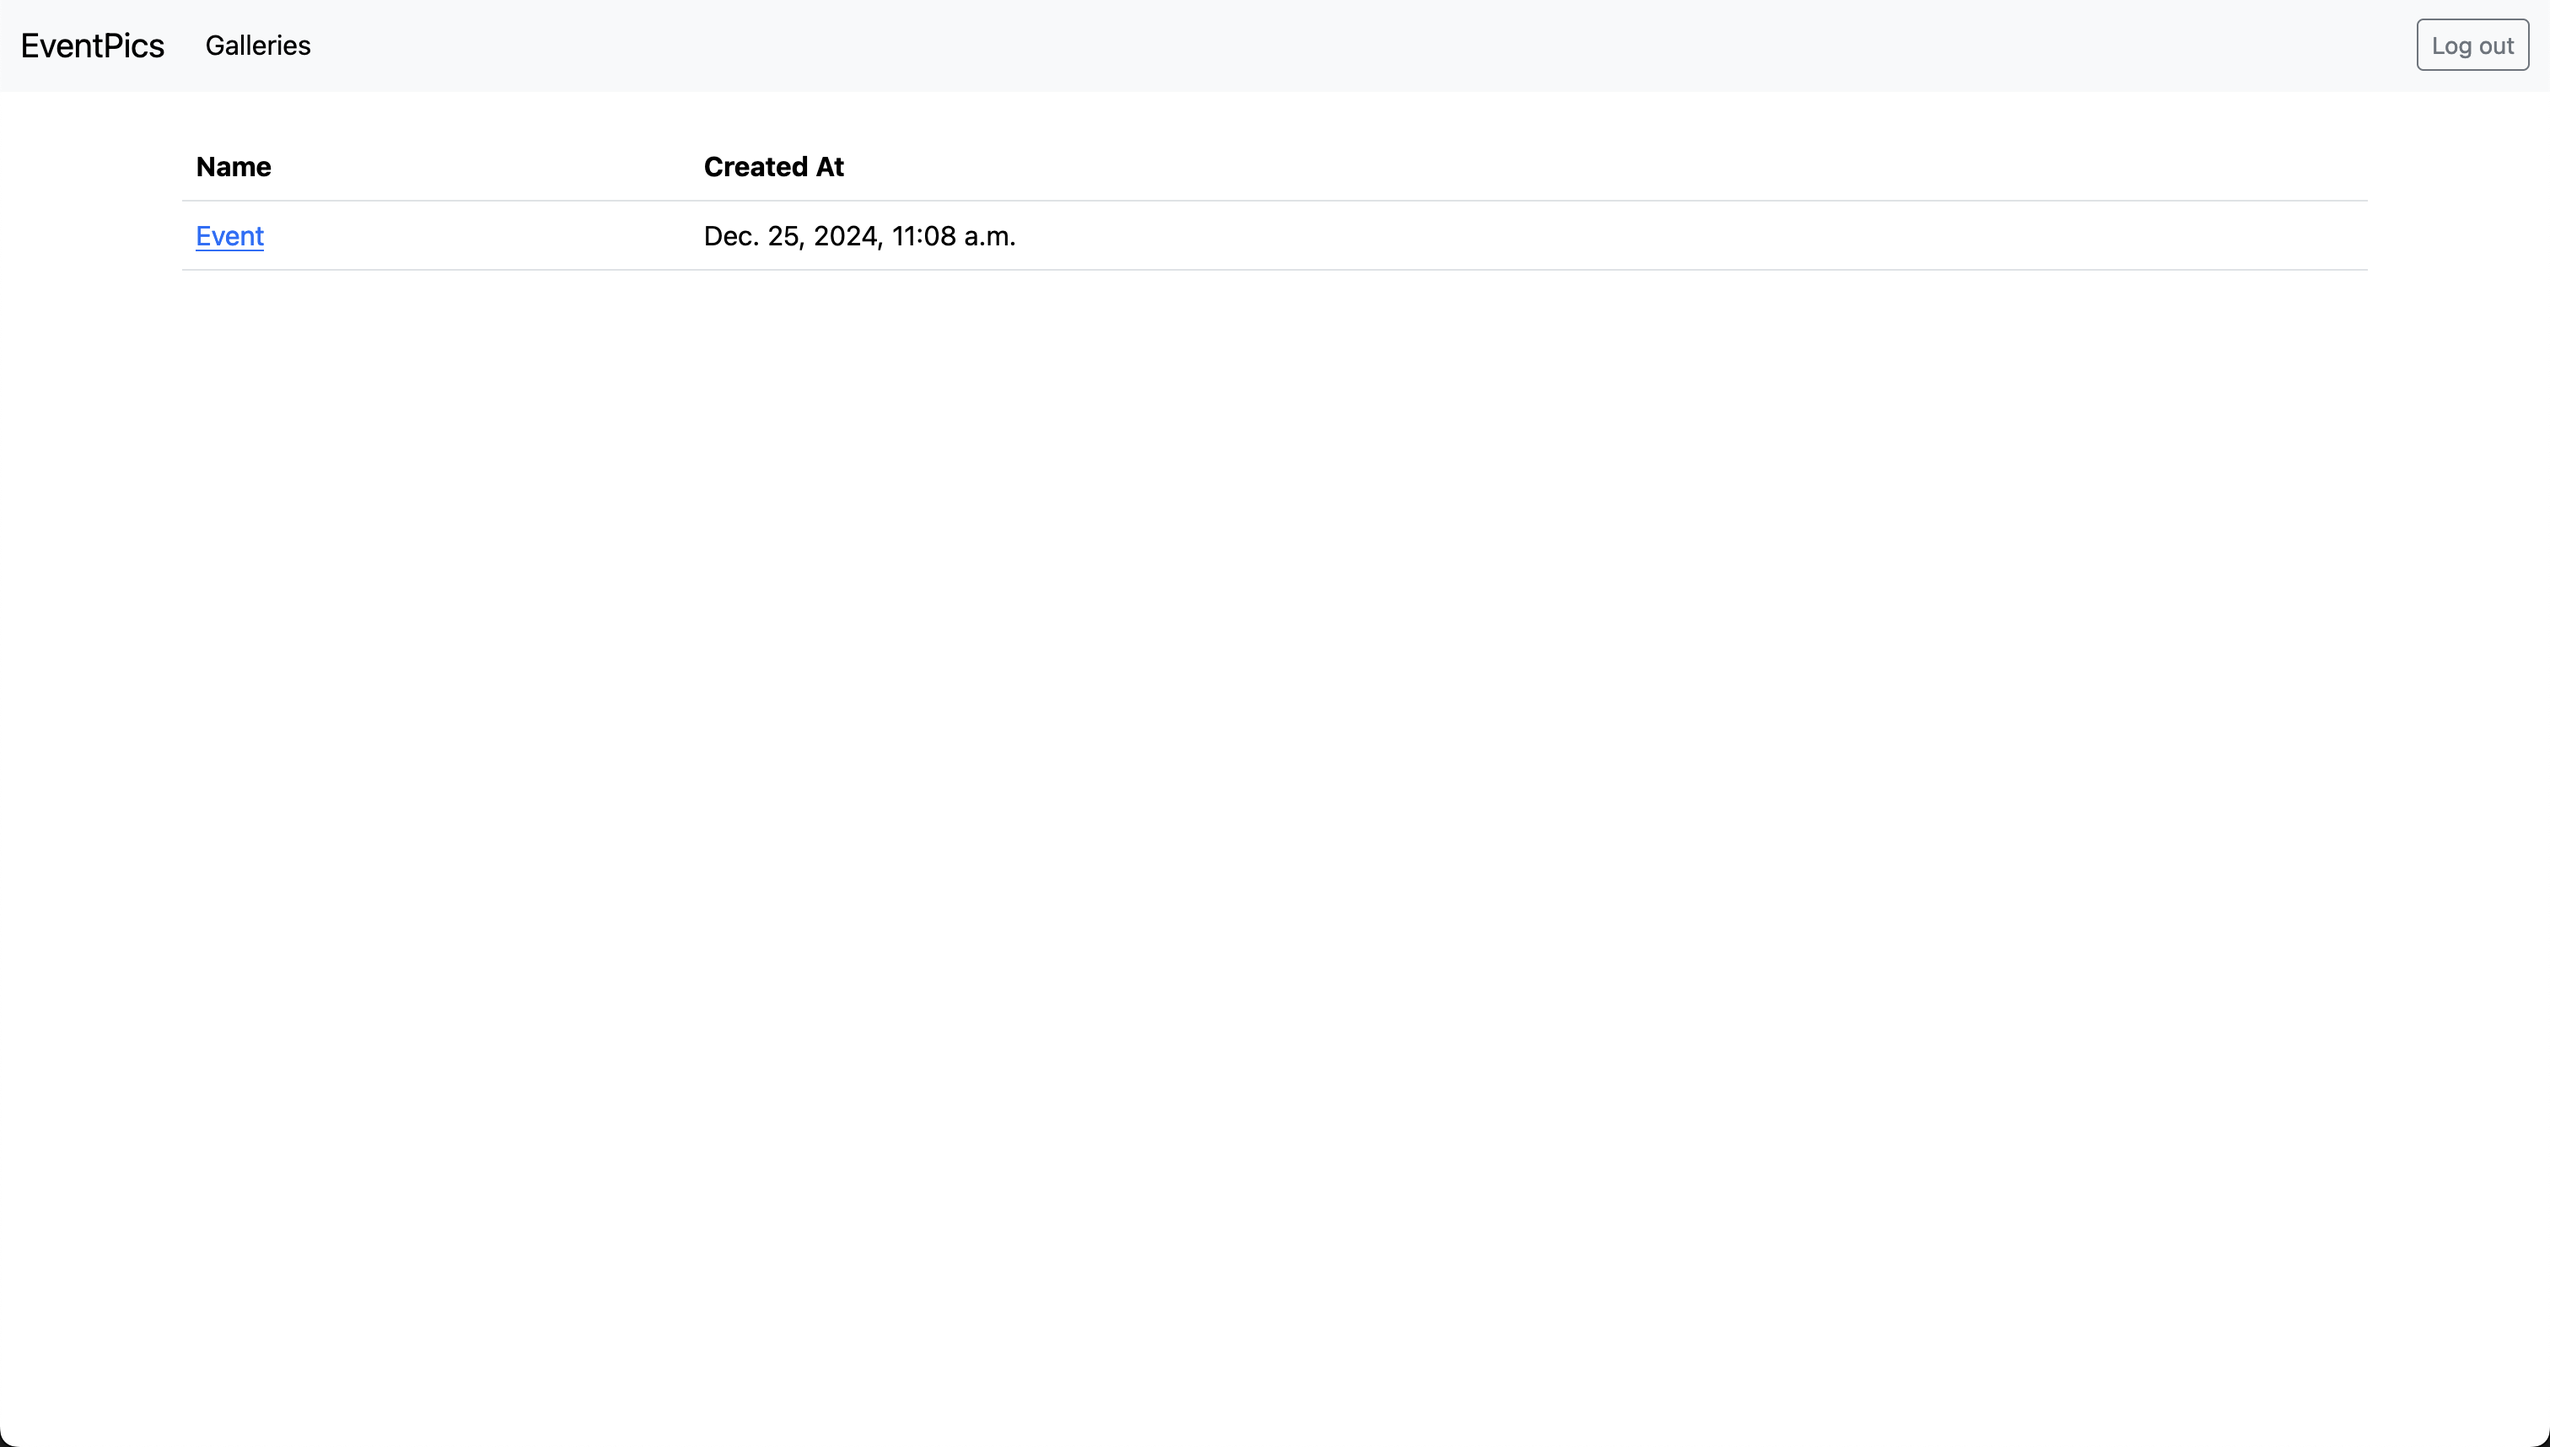
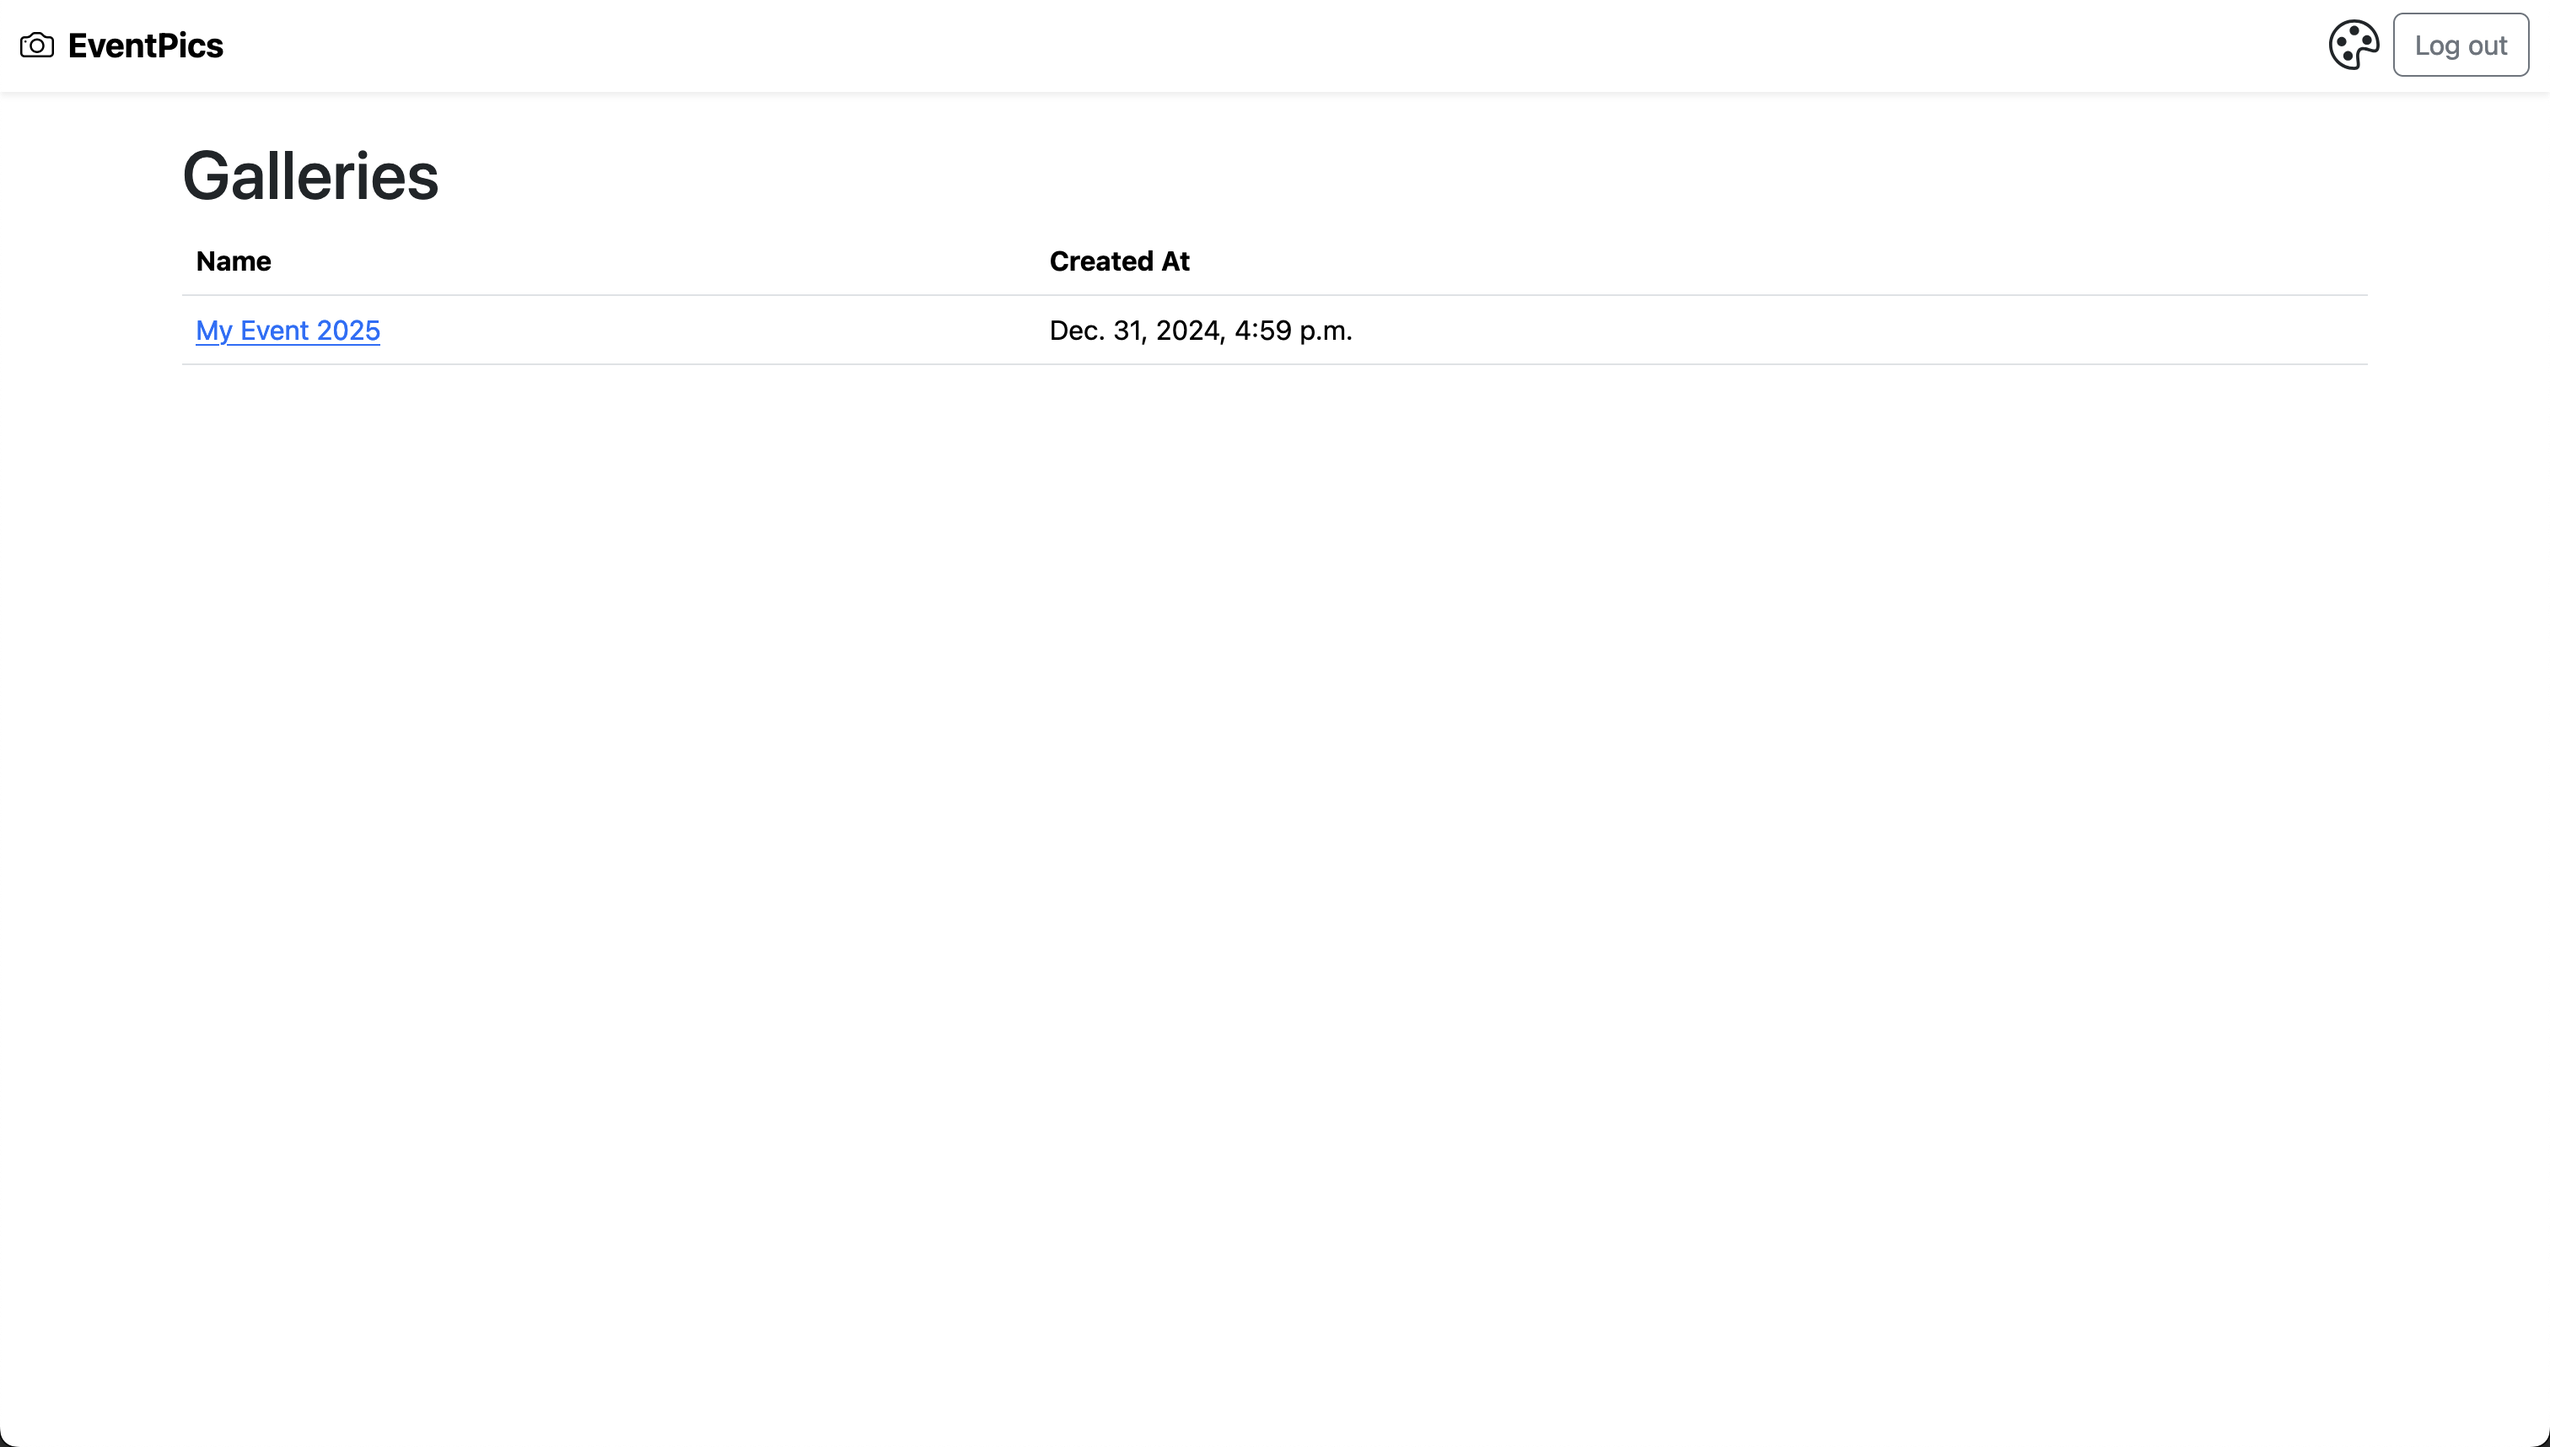
refactor: new layouts

diff --git a/README.md b/README.md
@@ -29,8 +29,6 @@ EventPics is a simple Django application designed to capture photos from events.
 
 ### Gallery Detail
 
-![Gallery Detail](images/gallery_detail.png)
-
 > [!NOTE]
 > Sample photos taken from [Pexels](https://www.pexels.com/search/Event/):
 > [1](https://www.pexels.com/photo/people-sitting-on-gang-chairs-2774556/)
@@ -38,7 +36,10 @@ EventPics is a simple Django application designed to capture photos from events.
 > [3](https://www.pexels.com/photo/clear-flute-glasses-on-black-tray-16408/)
 > [4](https://www.pexels.com/photo/people-having-a-concert-1190297/)
 
-![Gallery Detail](images/gallery_detail_grid.png)
+![Gallery Detail](images/gallery_detail.png)
+
+![Gallery Detail Mobile](images/gallery_detail_mobile.png)
+
 
 ### Upload Photos
 
